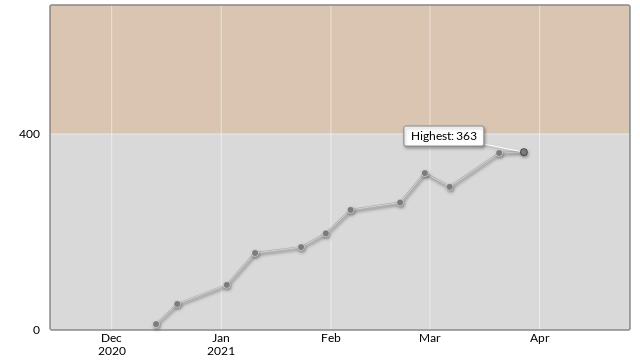
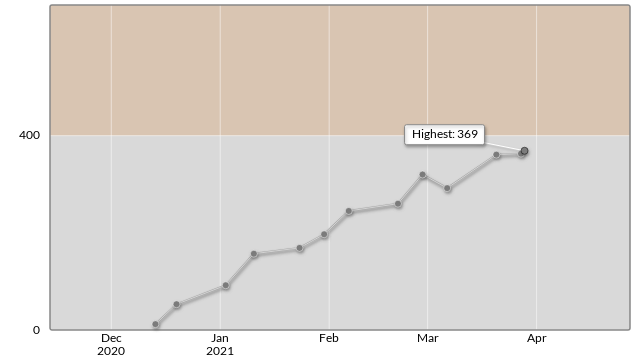
update AtCoder images

diff --git a/README.md b/README.md
@@ -21,4 +21,4 @@ atu4403の個人情報満載リポジトリ
 
 ![ATCODER_GRAPH](images/at_graph.png)
 
-(last update: 2021-03-27 23:49:32)
+(last update: 2021-03-28 23:37:54)
